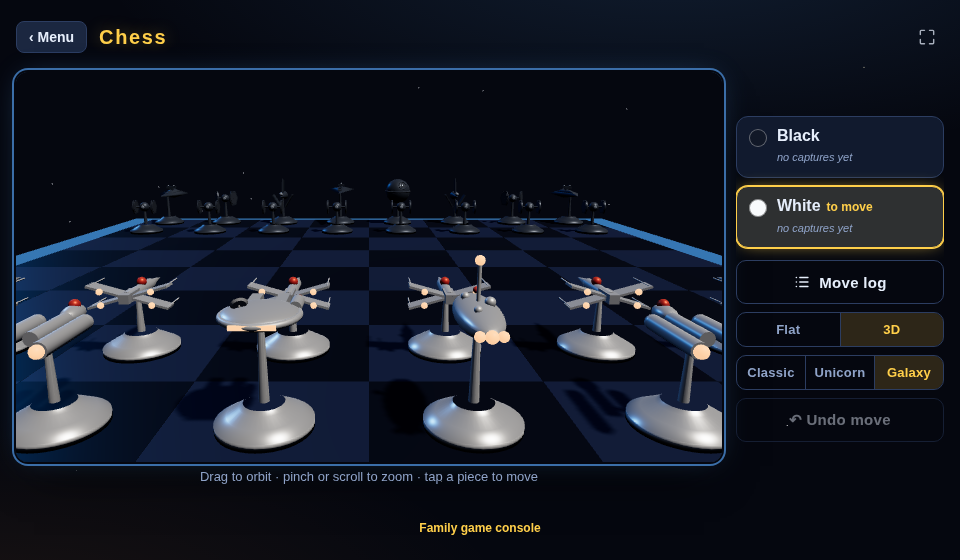
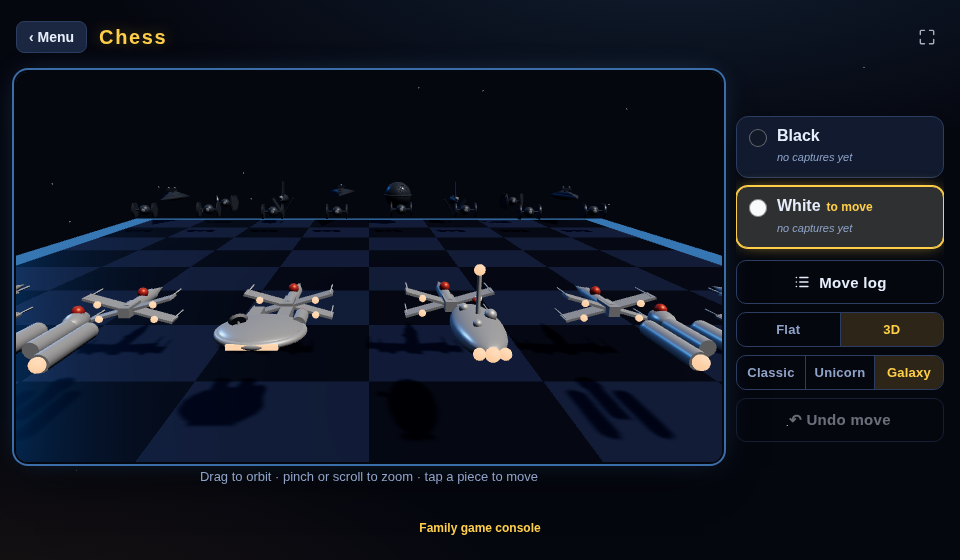
Chess: the Galaxy Fleet flies free — no plinths, no pylons
The starships no longer stand on display bases: every piece simply
HANGS over its square, and each ship bobs gently on its own phase, like
a fleet holding formation. The cast shadows on the tiles below — bow-tie
shapes under the TIEs, little X's under the X-wings — sell the hover.

Ships are scaled up a third now that there's no base carrying visual
weight. Bobbing pauses while a piece is mid-move (the move animation
owns its height), and under prefers-reduced-motion the fleet floats
steadily instead.

Claude-Session: https://claude.ai/code/session_01Pet5917XAbMAsbQM47tWg6

diff --git a/src/games/chess/components/three/ChessScene.ts b/src/games/chess/components/three/ChessScene.ts
@@ -375,6 +375,19 @@ export class ChessScene {
       }
     }
     if (this.checkMat) this.checkMat.opacity = 0.3 + 0.2 * Math.sin(now / 180);
+
+    // The Galaxy Fleet hovers: each ship bobs gently on its own phase.
+    // Skipped while a piece is mid-tween (the move animation owns its y),
+    // and entirely under reduced motion (they still float, just steadily).
+    if (this.palette.pieceStyle === 'ships' && !this.opts.reducedMotion) {
+      const busy = new Set(this.tweens.map((t) => t.obj));
+      for (const [key, piece] of this.pieces) {
+        if (busy.has(piece)) continue;
+        const phase = key.charCodeAt(0) * 1.7 + key.charCodeAt(1) * 2.3;
+        piece.position.y = Math.sin(now / 1150 + phase) * 0.022;
+      }
+    }
+
     this.renderer.render(this.scene, this.camera);
   };
 
@@ -738,17 +751,12 @@ function buildShip(
   // White sits at +z and flies toward -z; black the opposite.
   const f = black ? 1 : -1;
 
-  // Display plinth + pylon — slim, so the ship is the star of the model.
-  g.add(lathe([[0, 0], [0.24, 0], [0.24, 0.04], [0.18, 0.075], [0.12, 0.11], [0.1, 0.13]], mat));
-  const HOVER: Record<PieceType, number> = { p: 0.4, n: 0.44, b: 0.48, r: 0.5, q: 0.56, k: 0.56 };
-  const h = HOVER[type];
-  const pylon = new THREE.Mesh(new THREE.CylinderGeometry(0.014, 0.026, h - 0.13, 10), mat);
-  pylon.position.y = 0.13 + (h - 0.13) / 2;
-  g.add(pylon);
-
+  // No plinth, no pylon — the ships simply FLY, hanging over their squares
+  // (their cast shadows on the tiles below sell the hover).
+  const HOVER: Record<PieceType, number> = { p: 0.34, n: 0.38, b: 0.42, r: 0.44, q: 0.5, k: 0.5 };
   const ship = new THREE.Group();
-  ship.position.y = h;
-  ship.scale.setScalar(1.22);
+  ship.position.y = HOVER[type];
+  ship.scale.setScalar(1.32);
   g.add(ship);
 
   /** A cone lying along z, tip toward the enemy. */
